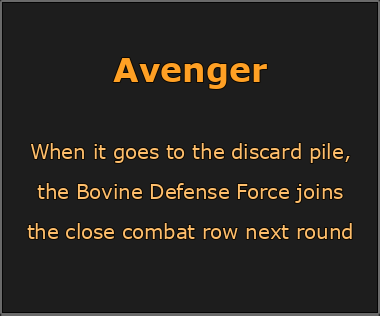
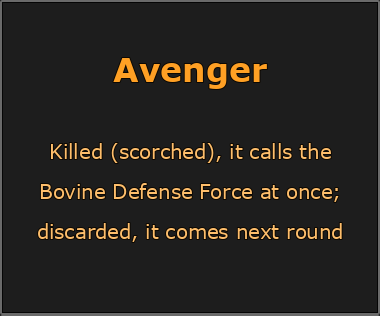
Kill the Cow, get the punishment: a scorched Cow's Defense Force comes at once
A Cow killed by a scorch (the Scorch card, a unit's or a leader's row scorch) calls the Bovine
Defense Force into its side's close combat row as soon as the scorch is over, sparkling in after
the burn, so the same scorch never hits it. Discarded any other way (cleared at a round's end,
or from the hand by Destroyer of Worlds), it still comes next round, as in The Witcher 3; a
decoy taking the Cow back to the hand calls nothing (now tested).

A notice says which: "Your Cow was killed: the Bovine Defense Force takes the field to avenge
it", or that it comes next round. The Cow's description box, How to play and the README say
the same; the README lists it as a deliberate difference from The Witcher 3.

Changed region(s): [[0.0868, 0.5696, 0.9263, 0.6551], [0.0579, 0.6835, 0.9263, 0.769], [0.0579, 0.4272, 0.9263, 0.5127]]

diff --git a/GwentCardGame/Assets/Scripts/Rules/AbilityRules.cs b/GwentCardGame/Assets/Scripts/Rules/AbilityRules.cs
@@ -20,8 +20,12 @@ namespace Gwent.Rules
 
             int destroyed = 0;
             foreach (PlayerState info in new[] { first, second })
+            {
+                List<int> avengers = new List<int>();
                 foreach (Row row in Rows.Units)
-                    destroyed += DestroyWithStrength(info, row, top_strength, db);
+                    destroyed += DestroyWithStrength(info, row, top_strength, db, avengers);
+                Avenge(info, avengers, db);
+            }
             return destroyed;
         }
 
@@ -33,7 +37,10 @@ namespace Gwent.Rules
             int top_strength = StrongestNonHero(target, row, db);
             if (top_strength < 0)
                 return 0;
-            return DestroyWithStrength(target, row, top_strength, db);
+            List<int> avengers = new List<int>();
+            int destroyed = DestroyWithStrength(target, row, top_strength, db, avengers);
+            Avenge(target, avengers, db);
+            return destroyed;
         }
 
         private static int StrongestNonHero(PlayerState info, Row row, CardDatabase db)
@@ -59,7 +66,8 @@ namespace Gwent.Rules
             return !card.unique && !card.IsSpecial;
         }
 
-        private static int DestroyWithStrength(PlayerState info, Row row, int strength, CardDatabase db)
+        // Destroys the row's non-hero units of that strength; the cards their killing calls are added to avengers
+        private static int DestroyWithStrength(PlayerState info, Row row, int strength, CardDatabase db, List<int> avengers)
         {
             List<int> units = info.UnitRow(row);
             List<int> base_strengths = info.BaseStrengths(row);
@@ -74,7 +82,10 @@ namespace Gwent.Rules
                 if (i < base_strengths.Count)
                     base_strengths.RemoveAt(i);
                 strengths.RemoveAt(i);
-                Discard(info, card_id);
+                if (card_id != CardIds.BovineDefenseForce)
+                    info.DiscardList.Add(card_id);
+                if (AvengerOf(card_id) != -1)
+                    avengers.Add(AvengerOf(card_id)); // killed: its avenger comes at once (Avenge)
                 destroyed++;
             }
             return destroyed;
@@ -82,15 +93,28 @@ namespace Gwent.Rules
 
         //----------------------------------------Avenger----------------------------------------//
         // The card a unit summons when it goes to the discard pile (-1 if none): the Cow calls the Bovine Defense Force.
-        // As in The Witcher 3, the summoned card arrives when the board is cleared for the next round (a decoy taking
-        // the Cow back to the hand summons nothing).
+        // Killed (scorched: by the Scorch card, a unit's or a leader's row scorch), it takes the Cow's place at once, in the
+        // close combat row: kill the Cow, get the punishment. Discarded any other way (cleared at a round's end, discarded
+        // from the hand by Destroyer of Worlds), it arrives when the board clears for the next round, so never if the battle
+        // ends first. A decoy taking the Cow back to the hand calls nothing.
         public static int AvengerOf(int card_id)
         {
             return card_id == CardIds.Cow ? CardIds.BovineDefenseForce : -1;
         }
 
-        // A unit leaving the battlefield goes to the discard pile. A summoned card is not a real card: it vanishes
-        // (so a medic cannot bring it back).
+        // The cards a scorch's killing called, on the close combat row now (once the scorch is over: never scorched by it)
+        private static void Avenge(PlayerState info, List<int> avengers, CardDatabase db)
+        {
+            foreach (int card_id in avengers)
+            {
+                info.CloseList.Add(card_id);
+                info.CloseStrengthL.Add(db.Get(card_id).strength); // until the next recalculation
+                info.MCloseStrength.Add(db.Get(card_id).strength);
+            }
+        }
+
+        // A unit leaving the battlefield goes to the discard pile, a Cow's avenger coming next round. A summoned card is
+        // not a real card: it vanishes (so a medic cannot bring it back).
         public static void Discard(PlayerState info, int card_id)
         {
             if (card_id != CardIds.BovineDefenseForce)

diff --git a/GwentCardGame/Assets/Scripts/Battle/BattleController.cs b/GwentCardGame/Assets/Scripts/Battle/BattleController.cs
@@ -589,7 +589,7 @@ namespace Gwent.Battle
                 }
             }
 
-            RefreshBoard();
+            RefreshBoard(round_clear: true);
             BoardChange change = board.EndChange();
 
             // The Witcher 3: the round's winner starts the next one; after a draw, whoever passed last
@@ -969,33 +969,44 @@ namespace Gwent.Battle
             StrengthCalculator.Recalculate(EnemyInfo, weatherList, doubleSpies, Db);
         }
 
-        // Recalculates the strengths, then shows both sides from the lists
-        private void RefreshBoard()
+        // Recalculates the strengths, then shows both sides from the lists (round_clear: the board cleared for a new round)
+        private void RefreshBoard(bool round_clear = false)
         {
             RecalculateStrengths();
             board.Refresh();
-            AnnounceSummons();
+            AnnounceCows(round_clear);
         }
 
-        // A Cow gone to the discard pile during a round (scorched): its Bovine Defense Force is held until the board clears
-        // for the next round (The Witcher 3), and never comes if the battle ends first. Said at once, or the player looks
-        // for it in vain. (At the end of a round it arrives in the same clearing: nothing to say.)
-        private readonly int[] summonsAnnounced = new int[2];
+        // A Cow gone to the discard pile during a round, said at once (AbilityRules.AvengerOf): killed (scorched), its
+        // Bovine Defense Force takes the field now, or the player wonders where it came from; discarded (Destroyer of
+        // Worlds), it is held until the board clears for the next round, never coming if the battle ends first, or the
+        // player looks for it in vain. (At the end of a round it arrives in the same clearing: nothing to say.)
+        private readonly int[] cowsDiscarded = new int[2];
+        private readonly int[] summonsPending = new int[2];
 
-        private void AnnounceSummons()
+        private void AnnounceCows(bool round_clear)
         {
             foreach (bool is_player in new[] { true, false })
             {
-                int pending = Info(is_player).PendingSummons.Count;
+                BattleSide info = Info(is_player);
                 int index = is_player ? 0 : 1;
-                if (pending > summonsAnnounced[index])
+                int cows = info.DiscardList.Count(id => id == CardIds.Cow);
+                int pending = info.PendingSummons.Count;
+                if (!round_clear && cows > cowsDiscarded[index])
                 {
-                    GameLog.Event(LogCategory.Battle, "summon_pending", "side", is_player ? "player" : "enemy", "cards", pending);
-                    UIOverlay.Toast(is_player
-                        ? "Your Cow is gone: the Bovine Defense Force joins your close combat row next round, if the battle goes on"
-                        : "The opponent's Cow is gone: their Bovine Defense Force comes next round, if the battle goes on", 4f);
+                    bool killed = pending <= summonsPending[index];
+                    GameLog.Event(LogCategory.Battle, killed ? "cow_avenged" : "summon_pending", "side", is_player ? "player" : "enemy");
+                    if (killed)
+                        UIOverlay.Toast(is_player
+                            ? "Your Cow was killed: the Bovine Defense Force takes the field to avenge it"
+                            : "You killed the opponent's Cow: their Bovine Defense Force takes the field to avenge it", 4f);
+                    else
+                        UIOverlay.Toast(is_player
+                            ? "Your Cow is discarded: the Bovine Defense Force joins your close combat row next round, if the battle goes on"
+                            : "The opponent's Cow is discarded: their Bovine Defense Force comes next round, if the battle goes on", 4f);
                 }
-                summonsAnnounced[index] = pending;
+                cowsDiscarded[index] = cows;
+                summonsPending[index] = pending;
             }
         }
 

diff --git a/GwentCardGame/Assets/Scripts/Battle/Board/BoardPresenter.cs b/GwentCardGame/Assets/Scripts/Battle/Board/BoardPresenter.cs
@@ -11,10 +11,10 @@ namespace Gwent.Battle
 {
     // Plays a change of the board the way The Witcher 3 does (the rules resolved it already; the board still shows it as
     // it was): the played card, in its board look from the start, glides in from the right end of its row and lands with
-    // a sparkle (a hero in smoke and fire),
-    // its ability flares, then what it caused follows: scorched cards burn and go to the discard piles, a medic's flare
-    // over the discard pile brings a card back, called and drawn cards fly in from the deck, a decoyed card goes back to
-    // the hand. In game time: the pause menu stops it.
+    // a sparkle (a hero in smoke and fire), its ability flares, then what it caused follows: scorched cards burn and go
+    // to the discard piles (a killed Cow's Bovine Defense Force appearing in its place), a medic's flare over the discard
+    // pile brings a card back, called and drawn cards fly in from the deck, a decoyed card goes back to the hand. In game
+    // time: the pause menu stops it.
     public class BoardPresenter
     {
         public const float LandSeconds = 0.22f; // the played card's glide along its row (The Witcher 3: about 0.2 s)
@@ -57,6 +57,14 @@ namespace Gwent.Battle
                 .Concat(change.Gone.Where(d => d.From == Place.Row).Select(d => d.Ghost)).ToArray();
             if (burned.Length > 0)
                 await CardEffects.Burn(burned, ct);
+
+            // A killed Cow's Bovine Defense Force takes the field where it stands
+            List<BoardChange.Arrival> avengers = change.New.Where(a => a.CardId == CardIds.BovineDefenseForce && a.To == Place.Row && !shown.Contains(a)).ToList();
+            if (avengers.Count > 0)
+            {
+                shown.UnionWith(avengers.Cast<object>());
+                await UniTask.WhenAll(avengers.Select(a => Summon(a, ct)));
+            }
 
             // A medic's flare over its discard pile, then the card it brings back
             List<BoardChange.Move> revived = change.Moves.Where(m => m.From.From == Place.Discard && m.To.To != Place.Hand).ToList();
@@ -168,6 +176,17 @@ namespace Gwent.Battle
             }
             CardMotion.Hide(arrival.Card, false);
             CardMotion.SettleIn(arrival.Card);
+        }
+
+        // A summoned card (not from the deck) appears in its place with a sparkle
+        private static async UniTask Summon(BoardChange.Arrival arrival, CancellationToken ct)
+        {
+            LaneHold.Release(arrival.Card);
+            if (arrival.Card == null)
+                return;
+            CardMotion.Hide(arrival.Card, false);
+            CardMotion.SettleIn(arrival.Card);
+            await CardEffects.Sparkle(arrival.Card, ct);
         }
 
         private static async UniTask Vanish(BoardChange.Departure departure, CancellationToken ct)

diff --git a/GwentCardGame/Assets/Tests/EditMode/AbilityRulesTests.cs b/GwentCardGame/Assets/Tests/EditMode/AbilityRulesTests.cs
@@ -199,7 +199,7 @@ namespace Gwent.Rules.Tests
         }
 
         [Test]
-        public void AScorchedCowSummonsTheDefenseForceForTheNextRound()
+        public void AScorchedCowCallsTheDefenseForceAtOnce()
         {
             PlayerState p = TestBoard.Player();
             PlayerState e = TestBoard.Player(Faction.Monsters);
@@ -209,11 +209,43 @@ namespace Gwent.Rules.Tests
 
             Assert.AreEqual(1, AbilityRules.Scorch(p, e, Db));
             Assert.IsEmpty(p.RangeList);
-            Assert.IsEmpty(p.CloseList);
+            CollectionAssert.AreEqual(new[] { CardIds.BovineDefenseForce }, p.CloseList, "the Defense Force, not burned by the same scorch");
             CollectionAssert.AreEqual(new[] { CardIds.Cow }, p.DiscardList);
+            Assert.IsEmpty(p.PendingSummons);
+            TestBoard.Recalc(null, p, e);
+            Assert.AreEqual(8, p.RowScore(Row.Close));
 
             RoundRules.CleanupBoard(p, new Random(0), Db);
-            CollectionAssert.AreEqual(new[] { CardIds.BovineDefenseForce }, p.CloseList);
+            Assert.IsEmpty(p.CloseList, "nothing more next round: the Defense Force came already");
+        }
+
+        [Test]
+        public void ARowScorchedCowCallsTheDefenseForceAtOnce()
+        {
+            PlayerState e = TestBoard.Player(Faction.Monsters);
+            e.CloseList.AddRange(new[] { CardIds.Cow, Draug }); // the hero makes the row's 10; the Cow is its strongest unit
+            TestBoard.Recalc(null, e);
+
+            Assert.AreEqual(1, AbilityRules.ScorchRow(e, Row.Close, Db));
+            CollectionAssert.AreEqual(new[] { Draug, CardIds.BovineDefenseForce }, e.CloseList);
+            Assert.AreEqual(e.CloseList.Count, e.CloseStrengthL.Count);
+            Assert.AreEqual(e.CloseList.Count, e.MCloseStrength.Count);
+        }
+
+        [Test]
+        public void ADecoyedCowCallsNothing()
+        {
+            Board board = new Board { Player = TestBoard.Player(), Enemy = TestBoard.Player(Faction.Monsters), Db = Db };
+            board.Player.RangeList.Add(CardIds.Cow);
+            board.Recalculate();
+
+            PlayRules.Decoy(board, CardIds.Cow, Row.Range, true, CardIds.Decoy);
+            CollectionAssert.AreEqual(new[] { CardIds.Cow }, board.Player.HandList, "back in the hand, not in the discard pile");
+            Assert.IsEmpty(board.Player.CloseList);
+            Assert.IsEmpty(board.Player.PendingSummons);
+
+            RoundRules.CleanupBoard(board.Player, new Random(0), Db);
+            Assert.IsEmpty(board.Player.CloseList);
         }
 
         [Test]

diff --git a/GwentCardGame/Assets/Scripts/Menus/RulesPage.cs b/GwentCardGame/Assets/Scripts/Menus/RulesPage.cs
@@ -106,7 +106,7 @@ namespace Gwent.Menus
                         E("Commander's horn", "Doubles the other units on its row, unless the row already has a Commander's Horn.", "medal:commander_horn"),
                         E("Scorch", "Destroys your opponent's strongest unit(s) on that row, if the row totals 10 or more.", "medal:scorch"),
                         E("Agile", "Close combat or ranged, your choice.", "medal:agile"),
-                        E("Avenger", "The Cow: when it goes to the discard pile, scorched or cleared at the end of a round, the Bovine Defense Force (8) joins your close combat row at the start of the next round; if the battle ends first, it never comes. A decoy taking the Cow back to your hand calls nothing.", "card:16"),
+                        E("Avenger", "The Cow: killed by a scorch, it is avenged at once, the Bovine Defense Force (8) taking the field in your close combat row. Discarded any other way (cleared at the end of a round, or from your hand by Destroyer of Worlds), the Defense Force joins your close combat row at the start of the next round; if the battle ends first, it never comes. A decoy taking the Cow back to your hand calls nothing.", "card:16"),
                     },
                 },
                 new Topic

diff --git a/GwentCardGame/Assets/Scripts/Battle/BattleController.Pickers.cs b/GwentCardGame/Assets/Scripts/Battle/BattleController.Pickers.cs
@@ -90,7 +90,7 @@ namespace Gwent.Battle
 
             GameAudio.PlaySfx("card_discard");
             GameLog.Event(LogCategory.Battle, "card_discarded", "side", is_player_card ? "player" : "enemy", "card", Db.Get(card_id).name);
-            AbilityRules.Discard(info, card_id); // a discarded Cow still calls the Bovine Defense Force (The Witcher 3)
+            AbilityRules.Discard(info, card_id); // a discarded Cow still calls the Bovine Defense Force, next round (The Witcher 3)
             SetHandObject(info.HandList, is_player_card);
             SetDiscardObject(info.DiscardList, is_player_card);
         }

diff --git a/README.md b/README.md
@@ -87,9 +87,12 @@ saved with more copies than that loses the extra ones when it is loaded.
   in the deck...) can't be used, so it is never wasted. Passive leaders (The Treacherous, Invader of the North, The White Flame,
   Daisy of the Valley) work from the start; The White Flame cancels the other leader, passive ones included.
 - A decoy on a row is not a unit: morale, horns and scorch ignore it, and Monsters never keep it (nor a hero) at the end of a round.
-- The Cow summons the Bovine Defense Force when it goes to the discard pile (scorched, or cleared at a round's end); the Defense
-  Force arrives when the board is cleared for the next round (never, if the battle ends first), and vanishes instead of going to
-  the discard pile. The game says so when a Cow leaves during a round, and the Cow's description box explains it.
+- The Cow summons the Bovine Defense Force (8, close combat). Killed by a scorch, it is avenged at once: the Defense Force takes the
+  field as soon as the scorch is over (The Witcher 3 holds it until the next round, so it never comes if the battle ends first).
+  Discarded any other way (cleared at a round's end, or from the hand by Destroyer of Worlds), it arrives when the board is cleared
+  for the next round, never if the battle ends first. A decoy taking the Cow back to the hand calls nothing, and the Defense Force
+  vanishes instead of going to the discard pile. The game says so when a Cow leaves during a round, and the Cow's description box
+  explains it.
 - Muster also pulls the matching cards from your hand, not only from your deck (The Witcher 3 does this too, although the card only
   says "deck"). The Arachas Behemoth calls the Arachas and Gaunter O'Dimm calls the Darkness, but not the other way round.
 - Francesca, Hope of the Aen Seidhe moves an agile unit when its own strength would be higher on the other row (ranged row first),
@@ -99,7 +102,8 @@ saved with more copies than that loses the extra ones when it is loaded.
   your choice, King of the Wild Hunt plays any weather card from your deck.
 
 Differences that remain: a revived agile unit goes where you put it (The Witcher 3 puts it on the row where it is stronger), a
-leader's horn leaves no card in the discard pile, and the Skellige faction (Blood and Wine) is not in the game.
+leader's horn leaves no card in the discard pile, and the Skellige faction (Blood and Wine) is not in the game. One is a choice: a
+scorched Cow's Bovine Defense Force comes at once, not next round.
 
 ## The AI
 
